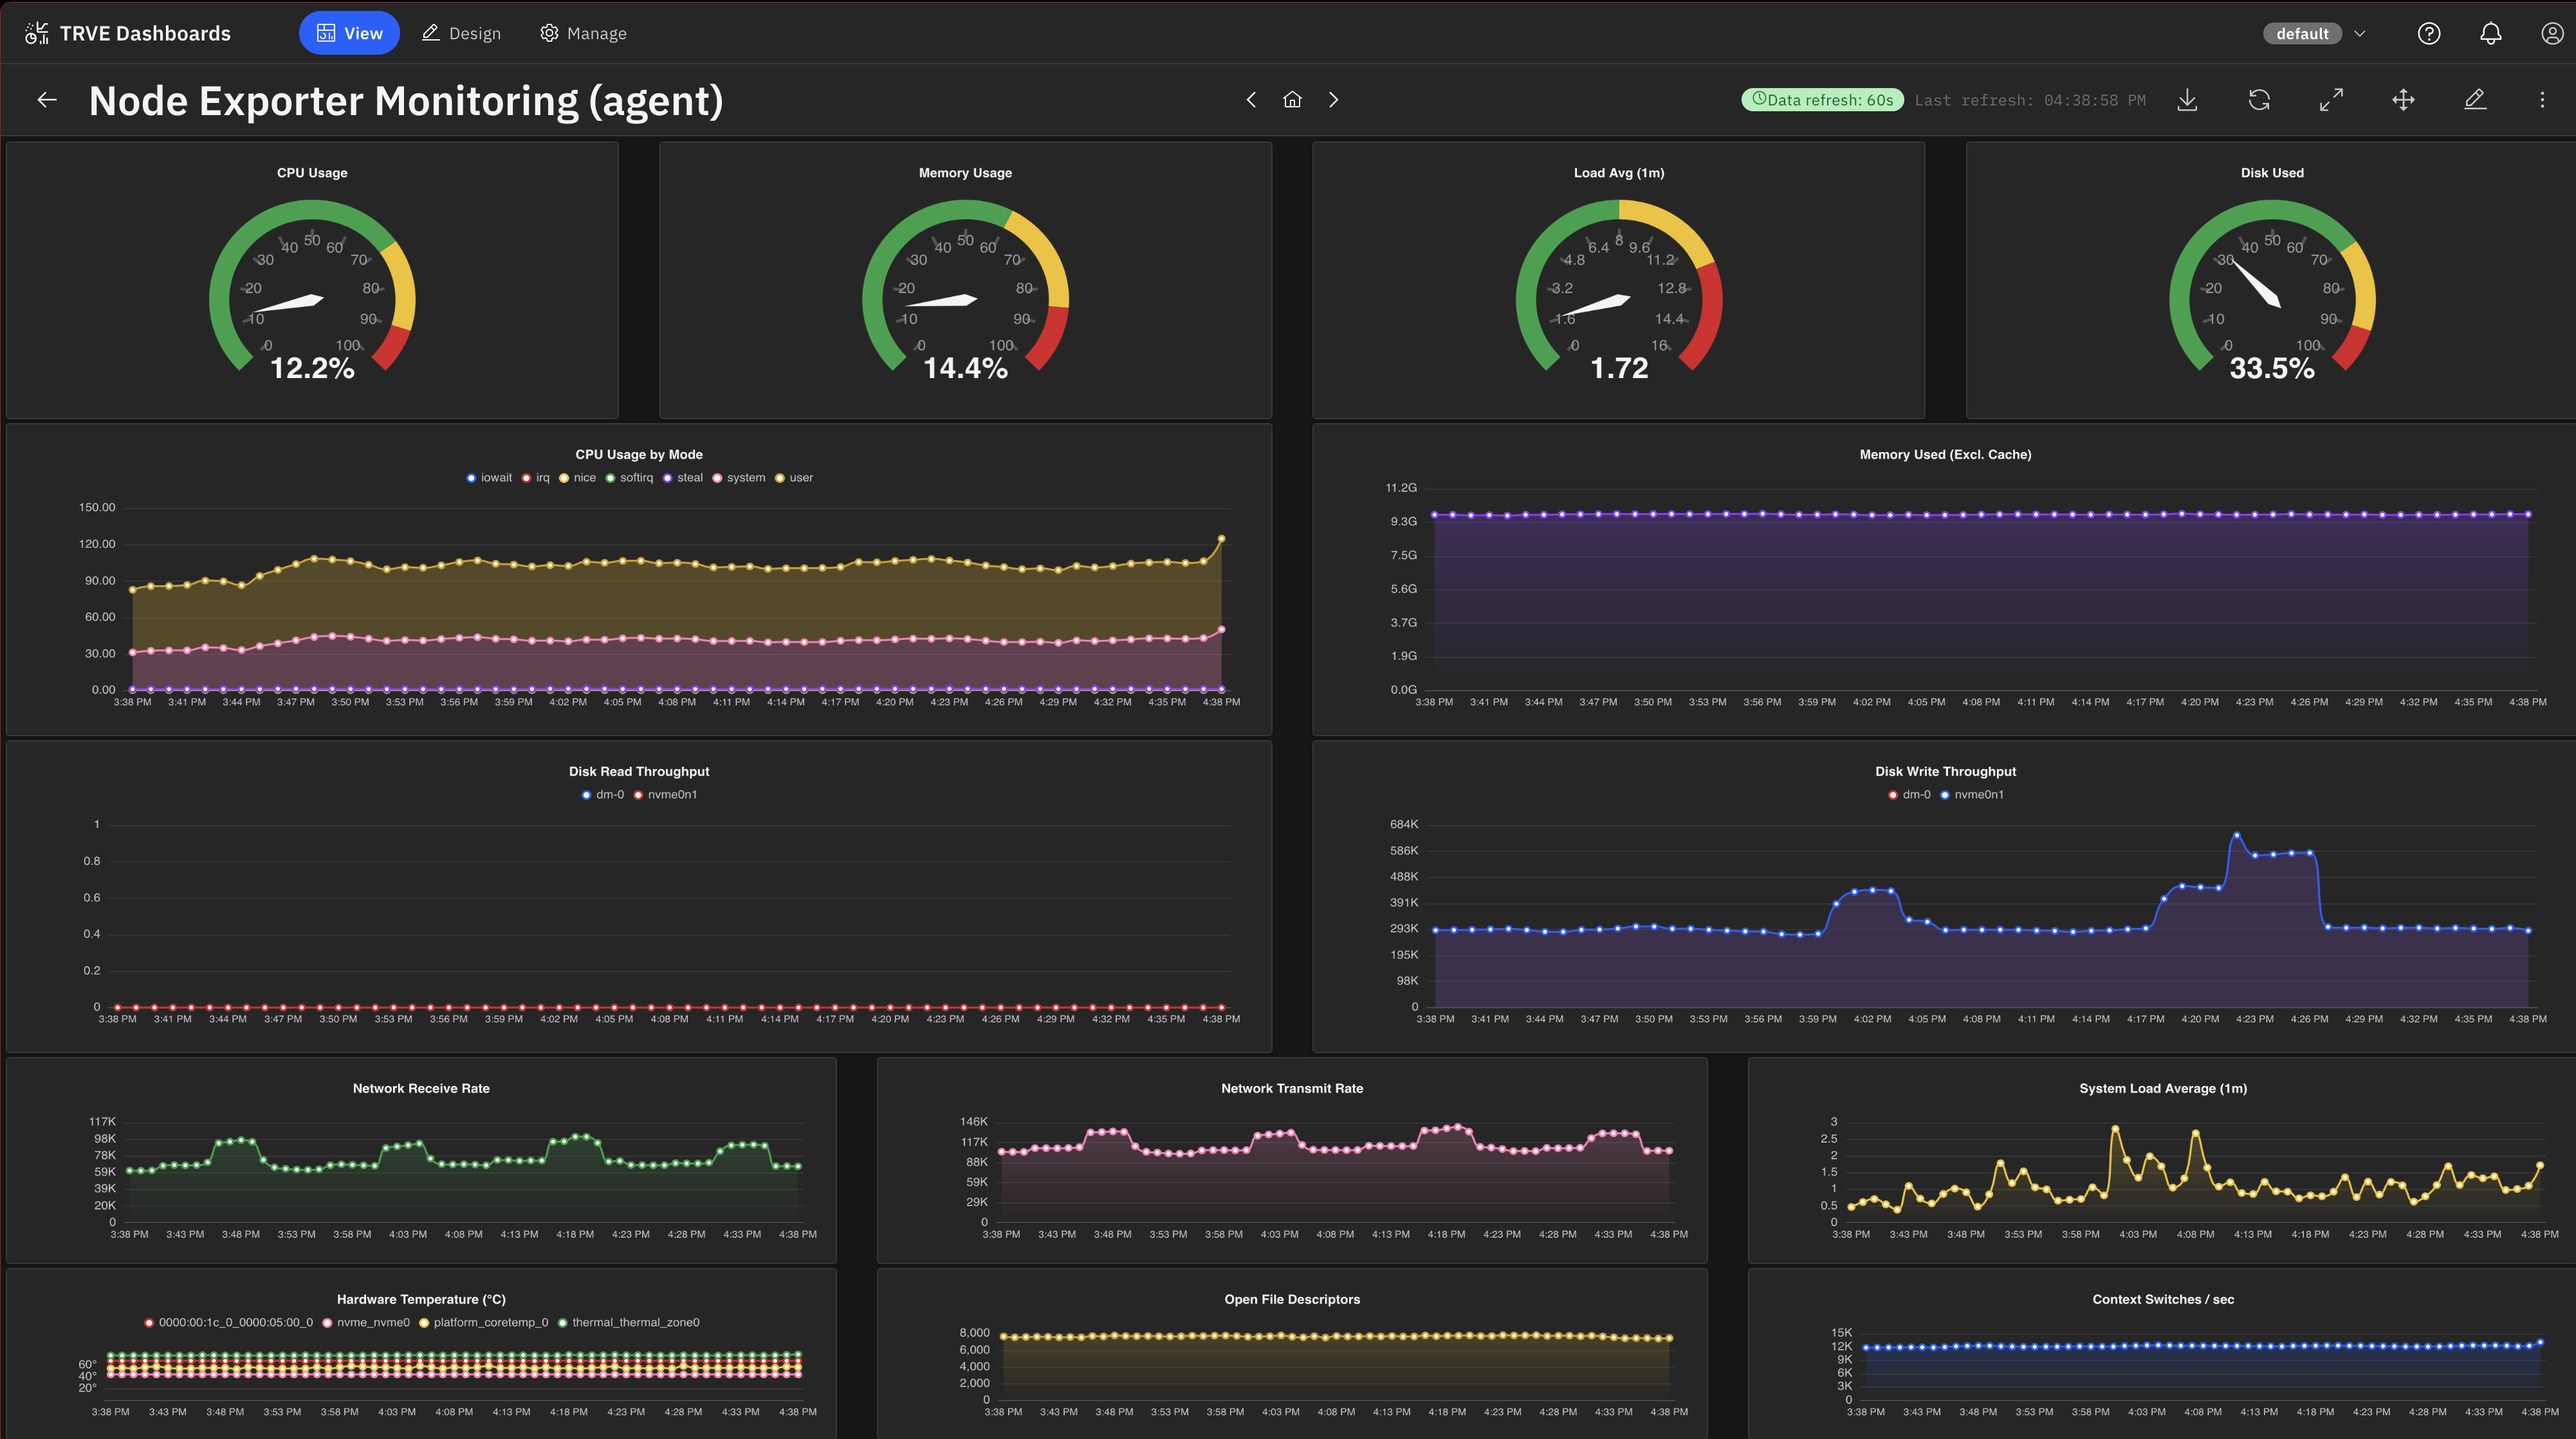
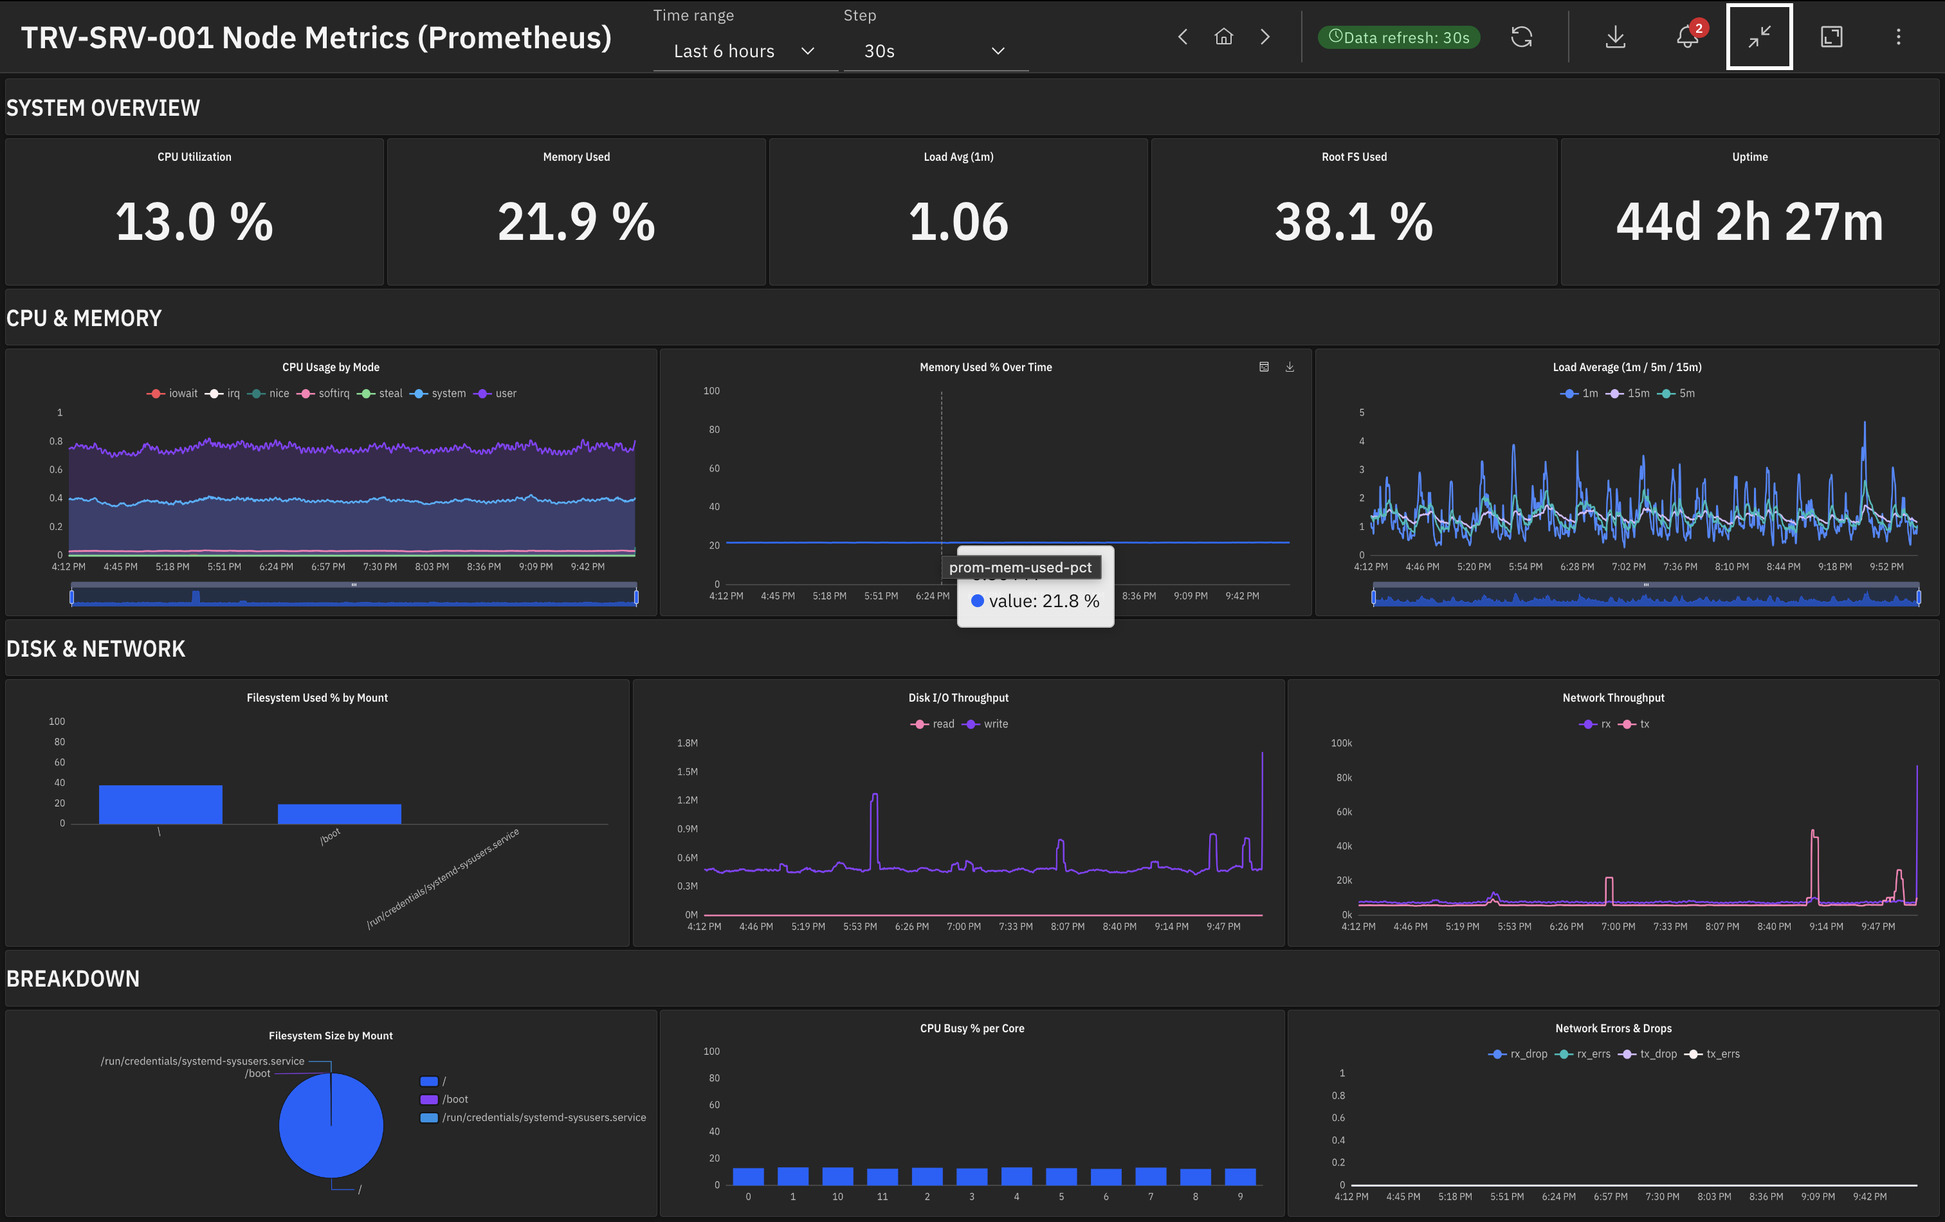
docs: turn examples/dashboards into a screenshot gallery
Four new dashboard screenshots, plus a refreshed prometheus-dashboard.png
that now shows the header's Time range + Step pickers.

examples/dashboards/README.md was titled and structured around the single
Prometheus example, so the new images had nowhere coherent to live. Retitle
it as a gallery with an index table and one section per dashboard. The
Prometheus walkthrough (the brief, "How it was built", "What the model
does") is preserved verbatim as the lead section — only the H1 changed, plus
a note on the range/step pickers now visible in its screenshot.

New sections, described from what each screenshot actually shows:

- System stats — ts-store rollups: 1h min/avg/max aggregates under a
  30-day range variable, threshold lines, per-chart data-zoom brush.
- Kitchen kiosk: no chart components at all — live Frigate feeds, door
  sensors, a plug control mid-interaction, Frigate alerts, weather.
- Assistant editing a live dashboard: the in-app agent rescaling a board
  to 150%, its tool calls visible, noticing the dashboard is being viewed
  rather than edited before touching it.
- AI-built traffic flows: a Sankey over 182 countries -> 8 AWS regions,
  rendered from saved config (Sankey is canonical — no component code).

AI authorship is claimed only where the screenshot proves it (Assistant
panel, Sankey); the kiosk and rollup boards are described neutrally.

Also corrects three now-stale pointers that called this folder "a
[…]

diff --git a/examples/dashboards/README.md b/examples/dashboards/README.md
@@ -1,4 +1,20 @@
-# Example: an AI-built Prometheus monitoring dashboard
+# Example dashboards
+
+Real dashboards running against live data — some assembled by hand in
+Design mode, some built end-to-end by the AI from a single prompt. Each
+section says which.
+
+| Dashboard | What it shows |
+| --------- | ------------- |
+| [Prometheus node metrics](#ai-built-prometheus-node-metrics) | A 12+ panel monitoring dashboard built end-to-end from one natural-language brief |
+| [System stats — ts-store rollups](#system-stats--ts-store-rollups) | Rollup stores rendered as min/avg/max bands, scoped by a range variable |
+| [Kitchen kiosk](#kitchen-kiosk) | Live cameras, controls, and weather on a single always-on screen |
+| [Assistant editing a live dashboard](#assistant-editing-a-live-dashboard) | The in-app agent mid-task, with its tool calls visible |
+| [Traffic flows (Sankey)](#ai-built-traffic-flows-sankey) | An AI-built Sankey over country → region flow data |
+
+---
+
+## AI-built Prometheus node metrics
 
 A complete, working node-exporter monitoring dashboard built end-to-end
 from a single natural-language prompt — no grid math, PromQL, or chart-type
@@ -7,7 +23,11 @@ components, and assembles them into a laid-out dashboard.
 
 ![Rendered Prometheus monitoring dashboard](./prometheus-dashboard.png)
 
-## How it was built
+The header's **Time range** and **Step** pickers are a range dashboard
+variable: the range scopes every panel at once, and the step sets the
+resolution Prometheus downsamples to.
+
+### How it was built
 
 TRV Outpost exposes AI-assisted dashboard building two ways, both
 driving the same component/dashboard tools:
@@ -28,7 +48,7 @@ The dashboard above was produced from a ~65-word brief like:
 > stays readable and there's additional node-exporter data worth
 > surfacing. Give each chart a concise title.
 
-## What the model does
+### What the model does
 
 1. Discovers the connection's data shape (metrics + labels) — it does not
    guess column names.
@@ -42,7 +62,68 @@ The dashboard above was produced from a ~65-word brief like:
 The result is a real, refreshing dashboard against live data — the same
 artifact a human would build through Design mode, produced from a sentence.
 
-> Historical note: an earlier standalone `dashboard-agent` CLI (an external
-> MCP client) was the first cut at this and has since been retired — the
-> in-app Assistant supersedes it. The screenshot here is one of its runs;
-> the Assistant and MCP build equivalent dashboards today.
+---
+
+## System stats — ts-store rollups
+
+![Weekly system stats rendered from ts-store 1h rollups](./system-stats-w-rollup-aggregations.png)
+
+A week of host metrics read from ts-store **rollup stores** — the 1h
+`min`/`avg`/`max` aggregates ts-store maintains alongside the raw source
+store, so a long window stays cheap to query.
+
+CPU and core temperature render as min/max bands around the mean; memory,
+NVMe temperature, and network throughput plot the three series directly.
+The NVMe panel carries `MED`/`HIGH` threshold lines. The header's **Range**
+picker (*Last 30 days*) scopes every panel at once, and each chart keeps a
+data-zoom brush for narrowing in without re-querying.
+
+---
+
+## Kitchen kiosk
+
+![Kiosk dashboard with cameras, controls, and weather](./my-kitchen-kiosk.png)
+
+An always-on wall display, showing that a dashboard isn't only charts —
+this one has **no chart components at all**.
+
+Two live Frigate camera feeds (driveway, front porch) sit next to garage
+door contact sensors and smart-plug controls. The open plug popup is a
+control mid-interaction: tiles show live state, and tapping one sends the
+command back through the connection. A Frigate alerts panel fills with
+unreviewed events as they arrive. The weather panel carries current
+conditions, an hourly strip, and a 5-day forecast.
+
+---
+
+## Assistant editing a live dashboard
+
+![The Assistant sidecar rescaling a dashboard, tool calls visible](./system-stats-w-assistant-panel.png)
+
+The in-app **Assistant** working on the dashboard next to it — here asked
+to rescale the board to 150% while staying inside the 2K canvas.
+
+The transcript shows the agent's actual tool calls (`get_dashboard`,
+`get_type_catalog`, `describe_tool`) rather than hiding them, so you can
+see what it read before it wrote. It also notices the dashboard is being
+*viewed* rather than *edited* and says so before changing anything. The
+panel reports the active namespace and model.
+
+The dashboard behind it mixes number tiles, gauges, and time-series charts
+over a live host-metrics feed, with a **Host** variable in the header to
+repoint every panel at a different machine.
+
+---
+
+## AI-built traffic flows (Sankey)
+
+![AI-built Sankey dashboard of country to AWS region traffic flows](./assistant-generated-sankey.png)
+
+An Assistant-built dashboard over network flow data, led by a **Sankey**
+linking 182 source countries to 8 destination AWS regions.
+
+Sankey is one of the canonical chart types, so it renders from saved config
+with no hand-written component code — the agent picked the type, mapped
+source/target/value, and laid the board out. Stat tiles summarize the
+window; bar charts rank top regions and source countries; a data table
+carries the underlying rows. Panels refresh on a 30s interval.

diff --git a/README.md b/README.md
@@ -69,7 +69,8 @@ in most any environment.
   the dashboard. The same capability is available to external agents
   through the MCP server. See [examples/dashboards](examples/dashboards/)
   for a walkthrough of a multi-panel Prometheus monitoring dashboard
-  built from a single prompt.
+  built from a single prompt, plus screenshots of the Assistant mid-edit
+  and an AI-built Sankey.
 - **Desktop app (macOS)** — an Electron build of the dashboard with a
   built-in **Claude Code sidebar** that launches the Claude Code CLI
   pre-wired to your dashboard's MCP server. It uses your existing Claude
@@ -290,8 +291,9 @@ source, backup + restore).
 - [MCP server](docs/mcp.md) — tool inventory, agent flow, and
   Claude Desktop setup via `mcp-proxy`
 - [Examples](examples/) — reference runs and demos
-  ([dashboards](examples/dashboards/) shows a multi-panel Prometheus
-  dashboard built from a single natural-language prompt)
+  ([dashboards](examples/dashboards/) is a screenshot gallery: AI-built
+  boards, the Assistant mid-edit, ts-store rollups under a range
+  variable, and a camera/control/weather kiosk)
 - [Deployment guide](docs/DEPLOYMENT.md) — production deployment
 - [Test plan](docs/TEST_PLAN.md)
 - [Project CLAUDE.md](CLAUDE.md) — conventions for contributors

diff --git a/examples/README.md b/examples/README.md
@@ -8,7 +8,7 @@ example with its own README + any supporting artifacts.
 
 | Example                                    | What it shows                                                                  |
 | ------------------------------------------ | ------------------------------------------------------------------------------ |
-| [`dashboards/`](./dashboards/)   | A multi-panel Prometheus monitoring dashboard built end-to-end from a single natural-language prompt (via the Dashboard Assistant / MCP) |
+| [`dashboards/`](./dashboards/)   | A gallery of dashboards running against live data — AI-built (Prometheus node metrics, a traffic-flow Sankey), the Assistant mid-edit, ts-store rollups under a range variable, and a camera/control/weather kiosk |
 
 Have a run worth preserving? Add it here with a screenshot + a README
 describing inputs, outputs, and what was surprising.
